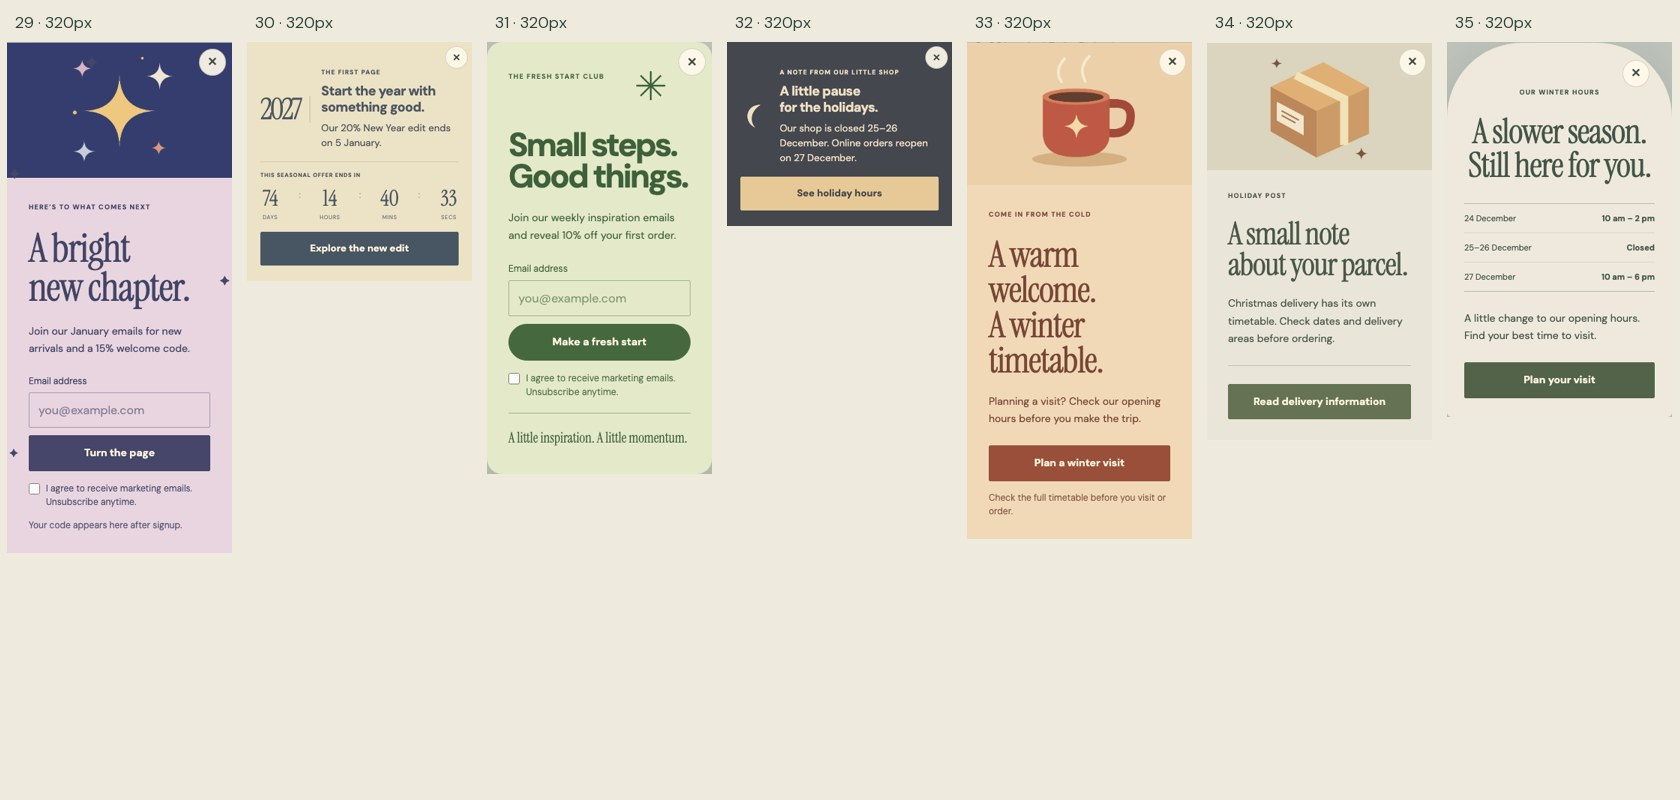
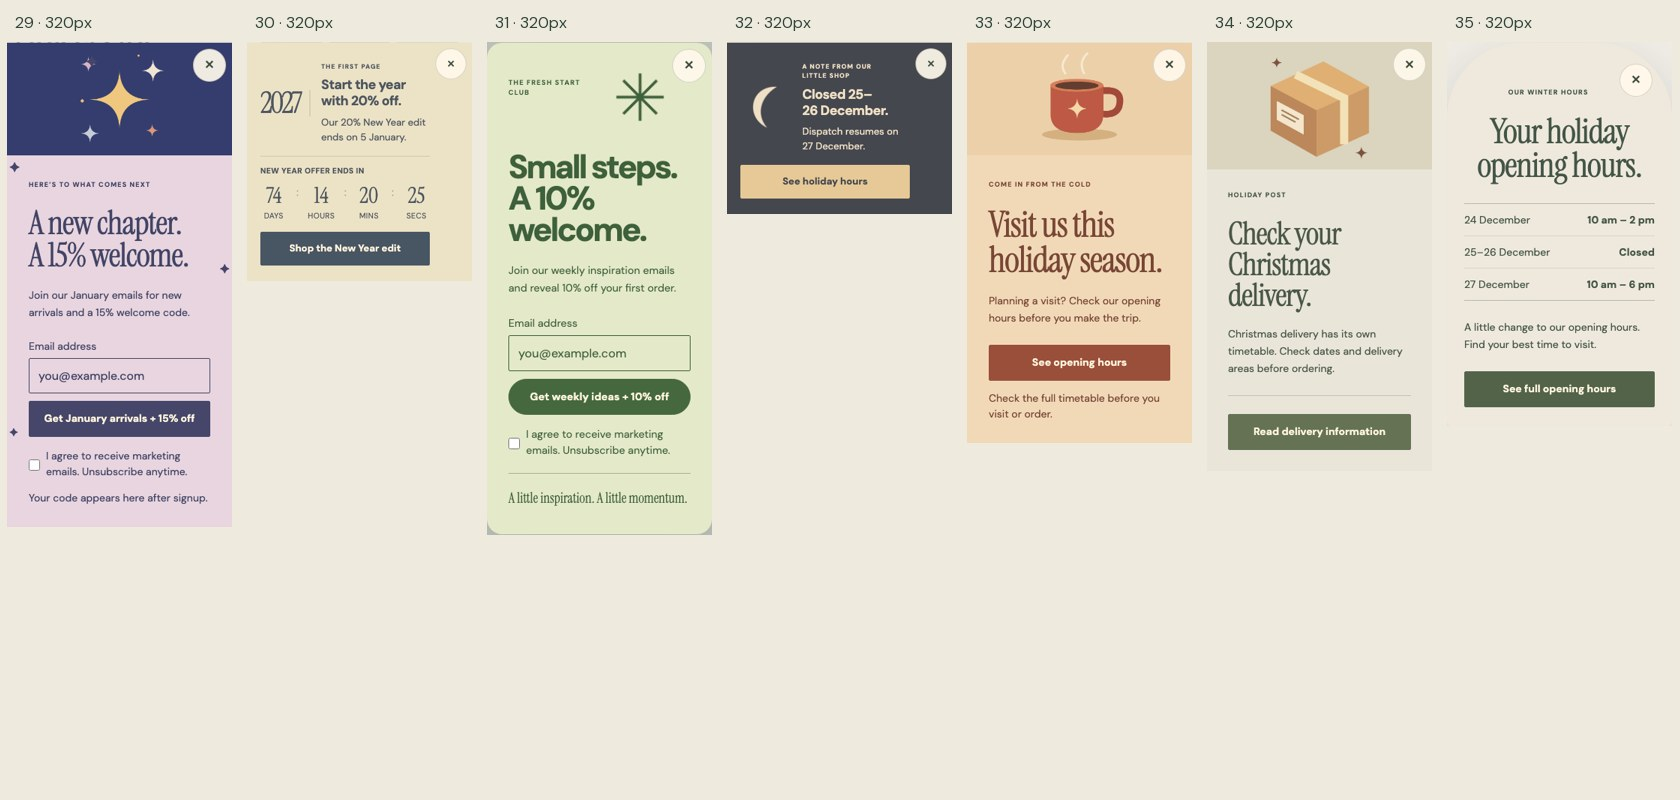
Review winter prototypes for practical use and editor resilience

diff --git a/tools/design-library/winter-prototype/style.css b/tools/design-library/winter-prototype/style.css
@@ -42,3 +42,53 @@
  .t-final .countdown b{font-size:38px}
  .t-final .countdown i{font-size:15px;line-height:38px}
 }
+/* Practical review: readable secondary copy, touch controls and resilient type. */
+.campaign h1{max-width:100%;overflow-wrap:anywhere}
+.tomorrow-title,.tomorrow-form{min-width:0}
+.campaign .fine-print,.campaign .consent,.campaign .signup-form>label:not(.consent){font-size:14px;opacity:1}
+.campaign .consent{min-height:44px;align-items:center}
+.campaign .close{width:44px;height:44px;inset-inline-end:8px;inset-inline-start:auto;top:8px}
+.campaign .eyebrow{padding-inline-end:30px}
+.campaign .coupon button{min-width:64px;min-height:44px;font-size:13px}
+.campaign .text-button{min-height:44px;font-size:14px}
+.campaign .timer-label,.campaign .countdown small{font-size:11px;opacity:1;letter-spacing:.04em}
+.campaign .countdown{flex-wrap:wrap}
+.campaign .signup-form input::placeholder{opacity:1}
+.format-floating-bar .campaign{padding-inline-end:64px}
+.format-floating-bar .campaign .body-copy{font-size:14px}
+.format-floating-bar .campaign .cta{font-size:14px;min-height:44px}
+.format-inline:after,.format-slide-in:after,.format-floating-bar:after{display:none}
+.t-atelier{grid-template-columns:35% 65%}
+.t-atelier h1{font-size:72px}
+.digital-label{background:#754b3a;color:#efc68e;padding:34px 30px;font:46px/.95 Instrument;letter-spacing:-.025em}
+.t-tomorrow h1{font-size:58px}
+.hours-table p,.hours-table b{font-size:14px;white-space:normal}
+@media(max-width:650px){
+ .t-atelier{grid-template-columns:minmax(0,1fr)}
+ .t-atelier>.artwork{display:flex;height:160px}
+ .t-atelier .atelier-center{padding:38px 28px}
+ .t-atelier h1{font-size:54px!important}
+ .t-tomorrow h1{font-size:51px}
+ .format-floating-bar .campaign{padding-top:28px;padding-inline-end:60px}
+ .campaign .countdown{gap:5px}
+ .campaign .countdown>span{min-width:38px}
+ .campaign .countdown i{font-size:15px}
+ .t-final h1,.t-midnight h1{font-size:56px!important}
+ .t-afterhours h1{font-size:49px!important}
+}
+.campaign .signup-form input[type=email]{border-color:currentColor}
+.campaign .coupon{border-color:currentColor;flex-wrap:wrap}
+.campaign .sleeping-moon,.campaign .club-flower,.campaign .bar-art,.campaign .gift-icon{width:72px;height:72px;padding:0;border-radius:50%;flex:0 0 72px}
+.t-sleeping .bar-copy{flex:1 1 130px}
+/* Source aspect ratios reproduce these image bands with native image leaves. */
+.campaign .art-banner,.campaign .globe-art{height:auto;aspect-ratio:2}
+.t-bow .art-banner{aspect-ratio:3}
+.campaign .globe-art img{max-width:none}
+.format-slide-in .ack-art{height:auto;aspect-ratio:2}
+@media(max-width:650px){.campaign .ack-art{height:auto;aspect-ratio:2}}
+.dispatch-date,.dispatch-copy{min-width:0}
+.date-context{display:flex;flex-direction:column;gap:8px;font-size:14px;line-height:1.4;letter-spacing:0}
+@media(max-width:650px){.dispatch-date{gap:20px;text-align:start}.dispatch-date strong{flex-shrink:0;font-size:80px}.date-context{flex:1;min-width:0}}
+/* Keep the touch dismiss control inside the arched hours panel. */
+.t-hours .close{top:28px;inset-inline-end:26px}
+@media(max-width:650px){.t-sleigh .bar-copy,.t-pickup .bar-copy{flex:1 1 100%}.t-chapter h1{font-size:44px!important}}

diff --git a/tools/design-library/winter-prototype/review/practical-review.md b/tools/design-library/winter-prototype/review/practical-review.md
@@ -1,0 +1,76 @@
+# Practical design review — 23 October 2026
+
+Scope: all 35 Christmas & New Year concepts, including every signup acknowledgement. This is a second review of the prototype, against the current template manifest, image renderer, native layout vocabulary and design guidelines. It is **not native-template approval**: no JSON registration, WordPress runtime, real capture/reward delivery, server catalogue or installed editor was exercised.
+
+## Verdict
+
+Keep the 35-concept batch, with 25 Pro and 10 individually downloadable Free designs. They cover useful seasonal jobs and several reusable layout families. They are not 35 unrelated layout inventions: letters, image splits and compact signup cards have intentional siblings. Preserve those family relationships in catalogue metadata rather than presenting palette variations as new capabilities.
+
+The prototype is a stronger starting point after the changes below. Native authoring must still prove content transfer, form conversion, real expiry, held rewards, theme application and image replacement in WordPress. No new editor capability is required by the proposed composition vocabulary; exact proportions must follow the native renderer, not be copied from arbitrary prototype CSS.
+
+## Findings and changes
+
+1. **Visitor value was too indirect.** Several headings were attractive but hid the actual incentive in body copy; CTA labels such as “Let me into winter” were vague. Signup headings now identify the reward or requested content, and buttons state the action. Decorative voice remains in imagery, palettes and secondary wording.
+2. **Every signup depended on a discount.** Design 14 now offers monthly gift ideas without a coupon. Its acknowledgement confirms the request and makes no provider-subscription or delivery claim. The other 13 signup examples retain their visible reward. Code copy is a utility, not a second conversion action.
+3. **Some urgency lacked context.** Design 10 now names its real example closing date. All 13 countdown labels identify the relevant offer, signup or ordering window. Design 22 replaces the oversized “11th hour” with editable digital-gift-card wording; it does not suggest only one hour remains. Merchants must configure true dates and valid offers before publishing.
+4. **Fine print and controls were too small.** Consent, secondary copy and field labels are 14px; inputs remain 16px. Close, copy, back and primary actions have a 44px target floor. Field boundaries now meet 3:1 contrast; checked solid-background text meets the relevant 4.5:1/3:1 thresholds. Text no longer relies on faded placeholder opacity.
+5. **Normal previews hid content resilience defects.** Longer copy, fallback fonts and RTL revealed heading overflow and close-control collisions. Headings and layout children now wrap without widening the campaign, and the close control uses the logical end edge with reserved text space. The dispatch date is a number beside a wrapping label group on phones, not three cramped columns.
+6. **Some arrangements implied unsupported editor controls.** Design 10 now uses a two-pane split and keeps the artwork in mobile reading order. Small image marks use the native 72px circular image footprint. Wide banner exports have useful source aspect ratios, so an ordinary image leaf can reproduce them without a custom image-height or crop-offset control. These are ordinary PNG assets; internal illustration parts are not editable shapes.
+7. **Non-modal formats looked modal in the review scene.** Slide-ins and bars now leave the demo page undimmed. Their actual triggering, placement and frequency still belong to campaign configuration.
+
+## Review lenses
+
+- **Visitor:** concrete benefit, one action, understandable button, truthful deadline, readable consent and honest acknowledgement.
+- **Merchant:** a clear job and placement; no prerequisite for custom HTML, SVG editing, animation code or a working Advent game.
+- **Editor:** panels, splits, rows/grids, image leaves, editable text, fields, code, countdown and the existing sparkle decorations. Images and complete image panels are different things: removing a whole pane may require adjusting the layout; replacing a picture does not recolour its surrounding panel automatically.
+- **Device/accessibility:** 320px and short phones, normal and longer copy, default and fallback fonts, RTL geometry, contrast, touch targets and reduced motion. RTL testing verifies geometry with the example copy, not Arabic/Hebrew localisation.
+- **Reuse:** meaningful words remain text; photographs can replace illustrations; the design still communicates its action with images unavailable. Dates, year labels, percentages and countdown schedules are separate editable content and must be kept consistent by the merchant.
+- **Catalogue:** one Christmas & New Year collection, discoverable before installation under existing Pro-hint preferences; Free items are hosted individually, never bundled in the Free ZIP.
+
+## Per-design assessment
+
+All entries below were reviewed as prototype candidates. “Setup” names what the merchant/native author must supply, not functionality implemented by this preview.
+
+| # | Practical job and placement | Editor composition / reuse | Setup or constraint |
+| --- | --- | --- | --- |
+| 01 | Gift-collection popup | Image/text split; replace wrapping art for another season | Link to a real gift collection; use a restrained trigger |
+| 02 | Simple discount popup, Free | Small circular image, live offer and code | Create the 15% code; align percentage, terms and code |
+| 03 | Immersive gift-guide landing invitation | Fullscreen text/media arrangement with static landscape | Best after an intentional action; avoid repeated interruption |
+| 04 | Ornament promotion with a deadline | Image split plus boxed countdown | Valid 20% promotion and genuine 20 December end date |
+| 05 | Gift-guide block within a page, Free | Image/text split without an unnecessary form | Link to a useful guide or collection |
+| 06 | Candle-store welcome signup | Wide image, clear incentive and single-field form | 15% welcome code, marketing destination and consent policy |
+| 07 | Colourful gift-collection feature | Three equal editorial areas can use a native grid | Reflow naturally; never preserve desktop order by hiding content |
+| 08 | Gift-ideas email signup, Free | Text/list panel plus form panel | Keep the list meaningful; valid 10% welcome code |
+| 09 | Gift-wrapping deadline reminder | Compact message/countdown/action row | State eligible orders and actual wrapping cutoff |
+| 10 | Curated Christmas collection invitation | Simplified two-pane fullscreen split | Publish a genuine collection closing date; no disappearing mobile pane |
+| 11 | Seasonal letters signup, Free | Text-led letter with simple border and sign-off | Real mailing purpose and 15% welcome code |
+| 12 | Editorial newsletter signup | Postcard image/form split | Clearly identify frequency/content and the 10% incentive |
+| 13 | Winter-launch email signup | Wide snowglobe image, form and optional sparkles | Illustration is static; no interactive snowglobe control implied |
+| 14 | Monthly gift-ideas newsletter, Free | Replaceable flower and form; no reward dependency | One email a month must match the merchant's intended mailing |
+| 15 | Early-access list signup | Compact text-led dark card and divider | Explain what “first pick” means; valid 15% code |
+| 16 | Time-bounded preview registration | Wide image, countdown and form | Set preview cutoff; native expiry must let an active submission finish |
+| 17 | Seasonal discovery newsletter | One decorative tile image beside a form | Tiles are artwork, not a calendar game or daily unlock feature |
+| 18 | Bookshop welcome signup, Free | Book image/form split | Real reading-list content and 10% offer |
+| 19 | Christmas dispatch cutoff notice | Compact text-led message plus clock/action | Dispatch cutoff is not a guaranteed arrival date |
+| 20 | Prominent order-cutoff popup | Framed panel with wide gift art and countdown | Date and destination should agree with delivery policy |
+| 21 | Delivery-planning information block | Editable calendar number and copy panel | Calendar label, body date and countdown schedule must agree |
+| 22 | Digital gift-card promotion | Large editable category label above a compact offer | Merchant must actually sell digital gift cards; no delivery-time claim |
+| 23 | Last-minute digital-gift offer, Free | Text-led code/countdown card | Valid 15% code and real 24 December deadline |
+| 24 | Click-and-collect cutoff bar | Clear pickup heading, explanation, clock and action | Actual pickup location, availability and cutoff needed |
+| 25 | Closing Christmas collection invitation | Large ornament/text split with a clear end date | Fullscreen suits deliberate engagement; configure respectful frequency |
+| 26 | January welcome signup | Dawn image/form split | Useful January content and valid 15% offer |
+| 27 | Optimistic New Year inline signup, Free | Bold text panel plus form panel | Longer copy and fallback fonts wrap; 10% code configured |
+| 28 | New Year sale destination | Botanical image/year panel and offer panel | Editable year, actual 20% offer and 5 January end date |
+| 29 | January arrivals email signup | Wide star image above a compact form | Real arrival announcements and valid 15% incentive |
+| 30 | New Year offer reminder bar | Live year, compact offer and countdown | Keep year, discount and closing date current |
+| 31 | Weekly inspiration signup, Free | Small circular flower, bold heading and form | Weekly cadence must be accurate; valid 10% code |
+| 32 | Holiday closure notice | Replaceable moon image and compact information/action | Real closure dates and dispatch-resumption date; no signup needed |
+| 33 | Opening-hours teaser | Warm mug image and straightforward visitor action | Link to current hours; distinct from the full timetable in 35 |
+| 34 | Delivery-policy notice, Free | Parcel image and concise information panel | Link to a real delivery page; no unsupported arrival guarantee |
+| 35 | At-a-glance holiday timetable | Three editable date/time rows and supporting action | Update every date and time; rows are text, not a live calendar integration |
+
+## Evidence and limits
+
+The JSON reports beside this file record normal layout, interaction, contrast and stress checks. Contact sheets show all 35 at desktop and 320px. Stress cases cover 35 designs × three widths × normal/long-copy/fallback-font/RTL variants (420 cases). Additional short-phone checks submit all 14 forms at 320×568 and verify that all 35 still expose their headline/action with artwork hidden. Hiding artwork checks semantic independence; it does not prove automatic deletion or collapse of native image panes.
+
+The native implementation must additionally validate all screens against the shipping vocabulary, review actual Keep/Sample content transfer and form conversion, test themes and real reward states, publish image rights metadata, verify installation and collection discovery, and boot and submit in real WordPress. These remain explicit future gates, not passed checks.

diff --git a/tools/design-library/winter-prototype/NOTES.md b/tools/design-library/winter-prototype/NOTES.md
@@ -13,7 +13,7 @@ Run `npm run prototype:winter` from the repository root. Open http://127.0.0.1:5
 - `/?render=27&motion=off`: standalone visitor view at the actual browser width.
 - Use the bottom switcher or arrow keys to move between concepts. Phone choices are 390px and 320px. Each preview scrolls if its content exceeds the frame height.
 
-The viewer includes a motion pause control, signup/acknowledgement selection, and countdown expiry preview. Example email forms use native email and consent validation, then show the matching example coupon. Copy code writes that code to the clipboard. No address is sent, saved, subscribed or added to a Destination. Shop and information buttons show a local demonstration notice.
+The viewer includes a motion pause control, signup/acknowledgement selection, and countdown expiry preview. Example email forms use native email and consent validation, then show a request acknowledgement. Thirteen signup designs reveal an example coupon; design 14 is a monthly newsletter without a coupon. Copy code writes that code to the clipboard. No address is sent, saved, subscribed or added to a Destination. Shop and information buttons show a local demonstration notice.
 
 ## Creative direction
 
@@ -47,15 +47,19 @@ The sample deadlines are 1/18/20/23/24 December 2026 and 5 January 2027 at 20:00
 
 ## Editor-friendly revision — 23 October 2026
 
-The review identified decoration that looked like a custom editor feature and object illustrations clipped by enlarged, upward-offset SVGs. The prototype now uses 20 exported PNG assets via ordinary image blocks. The source vectors remain authoring inputs only; no campaign renders inline SVG artwork.
+The review identified decoration that looked like a custom editor feature and object illustrations clipped by enlarged, upward-offset SVGs. The prototype now uses 30 exported PNG assets, including wide banner variants via ordinary image blocks. The source vectors remain authoring inputs only; no campaign renders inline SVG artwork.
 
 - Complete object illustrations use contain fit with no negative margins or enlargement. Candles, snowglobes, trees, books, gifts and mugs stay intact at desktop and phone widths. Surrounding image panes match the asset background, including the entire reading-room left column.
 - Removed the postage stamps in 11 and 12, the oversized arrow in 27, the extra mark in 09 and the arrows inside primary buttons. Buttons now use simple centred text, matching the native button vocabulary.
-- Moon marks in 15/32 and flowers in 14/31 are regular replaceable images. The native icon chooser supports check, star, bolt, gift, clock and truck; these custom symbols are not part of that list. An image can be replaced/removed as a whole; its internal drawing is not separately editable.
+- The moon mark in 32 and flowers in 14/31 are regular replaceable images. The native icon chooser supports check, star, bolt, gift, clock and truck; these custom symbols are not part of that list. An image can be replaced/removed as a whole; its internal drawing is not separately editable.
 - The decorative tile pattern in 17 is one image without pretend calendar numbers. Removed CSS-only blend treatment, vertically written year text and the letter's repeating-border effect. The year, calendar deadline and all meaningful copy remain live text.
 - The eight motion treatments continue to represent the existing native sparkle decoration, independent of ordinary image replacement. The 25 Pro / 10 Free split and 13 countdowns are unchanged.
 
 Regenerate the original raster assets with `node tools/design-library/winter-prototype/rasterize-art.mjs`. No new editor controls or native runtime behaviour are introduced in this prototype revision.
+
+## Practical review — 23 October 2026
+
+[The full review](review/practical-review.md) assesses every design for visitor value, placement, editor composition, content resilience and merchant setup. It records the changes to copy, touch controls, field contrast, image sizing, plain-newsletter signup and misleading urgency. The 420-case stress report covers longer copy, fallback fonts and RTL at three widths; additional checks cover short-phone submission and meaning without artwork. The batch remains a prototype pending native authoring and WordPress verification.
 
 ## Native promotion boundaries
 
@@ -65,14 +69,14 @@ Re-check every design through the native renderer on desktop and mobile, with lo
 
 ## Review evidence
 
-- Chromium layout audit: all 35 at 320, 390, 649, 651, 768 and 1000px; no horizontal page/card overflow, clipped checked text, offscreen close controls or browser errors.
+- Chromium layout audit: all 35 at 320, 390, 649, 651, 768, 1000 and 1440px; no horizontal page/card overflow, clipped checked text, offscreen close controls or browser errors.
 - All 14 acknowledgement views at 320, 390 and 1000px; no horizontal overflow.
 - Visual review: desktop and 320px contact sheets for all 35, plus all 14 acknowledgement views. Narrow atelier/tomorrow layouts and the village panorama were corrected during review.
 - Gallery and viewer inspected at 320, 390 and 1440px; no horizontal page overflow.
-- Interaction review: filters and counts, keyboard/selector navigation, phone width, pause, acknowledgement switching, all 14 forms and coupon copies, all 13 deadline calculations and simulated expiries, natural countdown expiry, expired initial loads, reduced motion, close/reopen.
+- Interaction review: filters and counts, keyboard/selector navigation, phone width, pause, acknowledgement switching, all 14 forms and the 13 signup coupon copies, all 13 deadline calculations and simulated expiries, natural countdown expiry, expired initial loads, reduced motion, close/reopen.
 - Production-build check: `npx vite build --config tools/design-library/winter-prototype/vite.config.mjs`.
 
-`review/layout-audit.json` and `review/functional-audit.json` record the prototype checks. Contact sheets are visual review references; live clocks may differ when reopened. These are prototype-browser checks, not WordPress verification or native-template approval.
+`review/layout-audit.json`, `review/functional-audit.json`, `review/stress-audit.json`, `review/contrast-audit.json` and `review/practical-audit.json` record the prototype checks. Contact sheets are visual review references; live clocks may differ when reopened. These are prototype-browser checks, not WordPress verification or native-template approval.
 
 ## Inventory
 
@@ -99,7 +103,7 @@ Re-check every design through the native renderer on desktop and mobile, with lo
 | 19 | The last sleigh | Last-minute | Floating bar | Pro | Yes | — |
 | 20 | Before the bow | Last-minute | Popup | Pro | Yes | — |
 | 21 | The dispatch desk | Last-minute | Inline | Pro | Yes | — |
-| 22 | The eleventh-hour gift | Last-minute | Slide-in | Pro | Yes | — |
+| 22 | The digital gift | Last-minute | Slide-in | Pro | Yes | — |
 | 23 | Still time for something | Last-minute | Popup | Free | Yes | — |
 | 24 | The pickup window | Last-minute | Floating bar | Pro | Yes | — |
 | 25 | A final little sparkle | Last-minute | Fullscreen | Pro | Yes | Sparkles |
